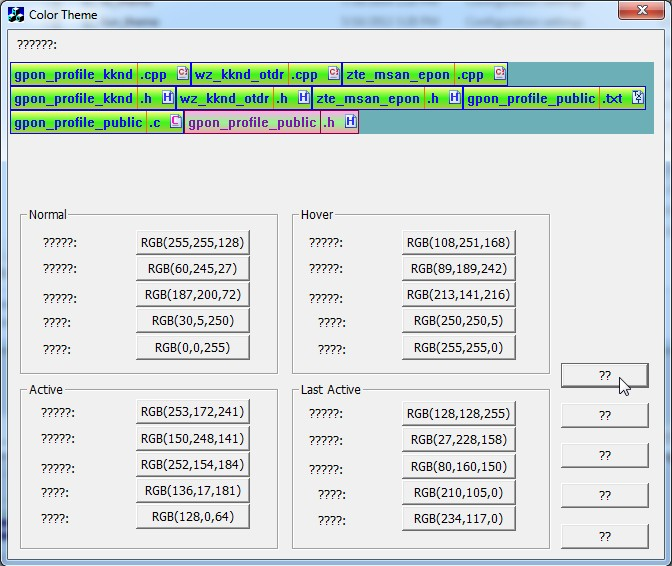
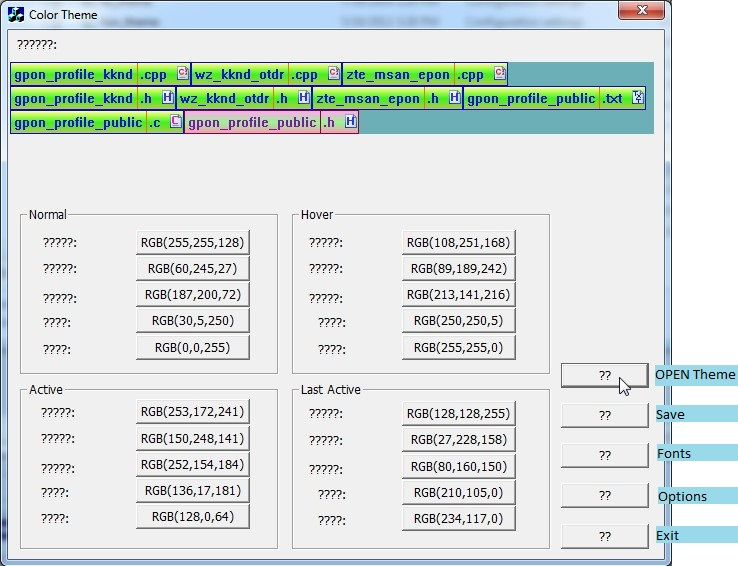
Add tabSi post

diff --git a/_posts/2015-07-15-tabsi-sourceinsight.md b/_posts/2015-07-15-tabsi-sourceinsight.md
@@ -1,0 +1,66 @@
+---
+layout: post
+title: "มาเพิ่มแท็บให้กับ SourceInsight ด้วย TabSiPlus"
+comments: True
+tags: tools
+---
+
+<a href="{{ page.url }}"><img src="/assets/tabSiPlus/SI-about-logo.jpg" /></a>
+<!--more-->
+
+[SourceInsight](http://www.sourceinsight.com/) เป็น [Text editor](https://en.wikipedia.org/wiki/Text_editor) ตัวหนึ่งที่ผมใช้ทำงานเป็นหลัก (ส่วนมากใช้อยู่ที่ทำงาน) ก่อนจะเปลี่ยนมาใช้ [Sublime Text](http://www.sublimetext.com/) ในปัจจุบันซึ่งก็ใช้ในการพัฒนาและเขียนบล็อกในเว็บนี้ด้วย
+
+## SourceInsight
+เป็น [Text editor](https://en.wikipedia.org/wiki/Text_editor) ที่พัฒนาโดยบริษัท SourceDynamic มี features ที่เด่นดังนี้
+- Code completion
+- bla bla bla
+
+จากฟังก์ชันการทำงานนี่ถือว่าเป็น [Text editor](https://en.wikipedia.org/wiki/Text_editor) ที่ครบเครื่องมาก ถ้าจะมีตัวเปรียบเทียบที่ทำความสารถได้ขนาดนี้โดยไม่ต้องมีส่วนเสริม (plug-in) แล้วล่ะก็เห็นจะมีแต่ [SlickEdit](http://www.slickedit.com/) อีกตัวซึ่งตัวนี้อาจมีฟังก์ชันเยอะกว่า [SourceInsight](http://www.sourceinsight.com/) ด้วยซ้ำไปแต่สำหรับผมคิดว่ามันเยอะเกินพอดีทำให้กินทรัพยากรของเครื่องมากไปและหน้าตาของมันแม้จะดูทันสมัยแต่ก็เต็มไปด้วย scroll bar ซึ่งกินพื้นที่การทำงานบนหน้าจอไปเยอะเลย รู้สึกว่ามันรก
+
+กลับมาที่ [SourceInsight](http://www.sourceinsight.com/) พระเอกของเรากันต่อ สำหรับผมแล้วนอกจากหน้าตาที่ดูออกจะโบราณแล้ว ( เนื่องจากว่า [SourceInsight](http://www.sourceinsight.com/) นั้นไม่มีการพัฒนาเพื่อเพิ่มฟังก์ชันต่างๆ ไปหลายปีแล้วหรือจะบอกว่าเลิกพัฒนาไปแล้วก็ได้, นอกจากแก้ bug หรือพอร์ตไป windows เวอร์ชันใหม่) ก็มีอีกอย่างที่ผมอยากได้จาก [SourceInsight](http://www.sourceinsight.com/) คือแท็บของไฟล์ที่เราเปิดทำงานอยู่ทั้งหมดเพื่อเพิ่มความสะดวกในการเปลี่ยนไปทำงานกับไฟล์อื่นๆ และยังทำให้รู้สถานะว่าเราเปิดไฟล์อะไรค้างไว้บ้าง
+
+ด้านล่างคือ SourceInsight แบบดั้งเดิมที่ยังไม่มี tab
+![notap](/assets/tabSiPlus/SI-noTap.jpg)
+
+## [TabSiPlus](http://goo.gl/1vI6AT)
+[TabSiPlus](http://goo.gl/1vI6AT) เป็น plug-in ของ SourceInsight ที่พัฒนาโดยโปรแกรมเมอร์ชาวจีนซึ่งใช้ชื่อว่า Simon.W
+
+### สิ่งที่จำเป็นต้องมีในการใช้งาน [TabSiPlus](http://goo.gl/1vI6AT)
+- [Microsoft Visual C++ 2008 Redistributable Package](https://www.microsoft.com/en-us/download/details.aspx?id=29)
+อันนี้ต้องถูกติดตั้งในเครื่องเพื่อการทำงานที่ถูกต้องของ TabSiPlus
+
+## การใช้งาน TabSiPlus [TabSiPlus](http://goo.gl/1vI6AT)
+หลังจากโหลด TabSiplus มาแล้วให้ copy โฟลเดอร์ไปไว้ที่เราต้องการได้เลยหลังจากนั้นเปิดเข้าไปในโฟลเดอร์
+แล้วดับเบิ้ลคลิก TabSiHost ถ้าไม่มีข้อผิดพลาดอะไรแค่นี้ TabSiPlus ก็ทำงานเรียบร้อยแล้ว
+![้host](/assets/tabSiPlus/tapSi-host-run.jpg)
+
+เปิด SourceInsight ขึ้นมาก็จะเจอกับ Tab ที่เพิ่มขึ้นมา
+![taptop](/assets/tabSiPlus/SI-addTap-toTop.jpg)
+
+## TabSiPlus [TabSiPlus](http://goo.gl/1vI6AT) customization
+ใหเปิดเข้าไปในโฟลเดอร์ของ TabSiPlus อีกทีจากนั้นเปิดไฟล์ Tabtest ขึ้นมาเพื่อปรับแต่ง theme ของ tab
+![้tabtest](/assets/tabSiPlus/tapSi-folder-setting.jpg)
+
+เปิดขึ้นมาแล้วจะเจอกับหน้าปรับแต่งธีมที่มีเครื่องหมายคำถามเต็มไปหมด
+![้font](/assets/tabSiPlus/tapSi-load-setting.jpg)
+
+หน้านี้ปรับแต่ง font
+![้font](/assets/tabSiPlus/tapsi-font-setting.jpg)
+
+หน้านี้ปรับ option ว่าต้องการให้มีไอคอนสำหรับปิดแท็บไหม และกรุ๊ปแท็บที่มีชื่อเดียวกันไหม
+![้option](/assets/tabSiPlus/tapSi-addexitIconOption-setting.jpg)
+
+อันข้างล่างคือตัวอย่างธีมที่ผมปรับแต่งไว้
+![้option](/assets/tabSiPlus/tapSi-save-setting.jpg)
+
+
+และภายในหน้าต่างของ SourceInsight ที่มี TabSiPlus เกาะอยู่เรายังสามารถปรับแต่ง option ต่างได้อีกหลายอย่างเช่น
+- เลือก theme ที่เราสร้างขึ้น
+- ปรับให้แท็บอยู่ข้างล่างหรือข้างบน
+- อื่นๆ ลองปรับแต่งกันดูได้ครับ
+
+![้optioUI](/assets/tabSiPlus/SI-tapOption-click.jpg)
+
+![้optioUI](/assets/tabSiPlus/tapSiPlus-option-menu.jpg)
+
+บล็อกนี้หลักๆแล้วผมต้องการบันทึกไว้กันลืมสำหรับตัวเองเผื่ออนาคตได้กลับมาใช้ SourceInsight อีก...<3
